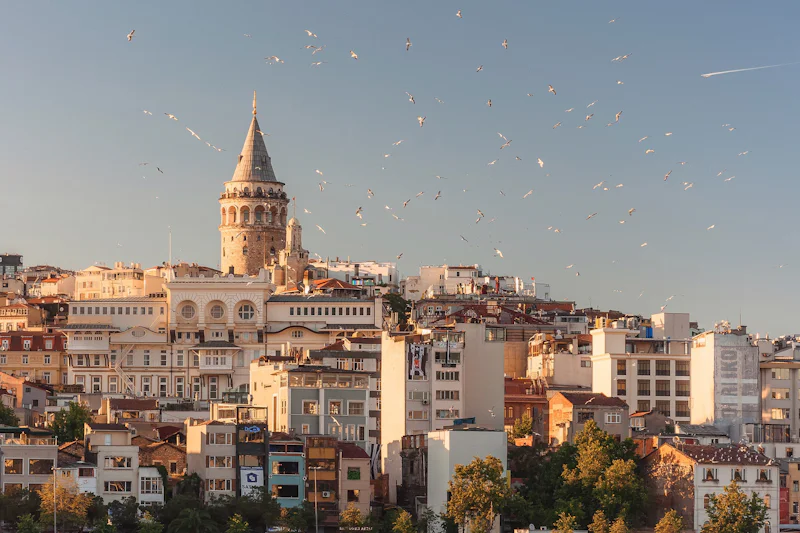
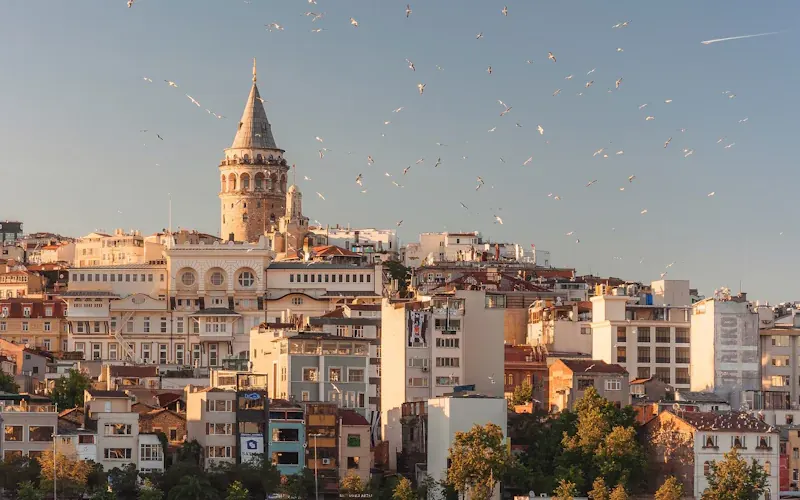
Lighten homepage destination tiles
Landscape 1.6:1 masters and quality 40 bring every tile under PageSpeed's compression target; extend the PageSpeed regression tests.

diff --git a/src/lib/pagespeed-assets.test.ts b/src/lib/pagespeed-assets.test.ts
@@ -1,5 +1,5 @@
 import assert from "node:assert/strict";
-import { existsSync, readFileSync } from "node:fs";
+import { existsSync, readFileSync, readdirSync } from "node:fs";
 import { join } from "node:path";
 import test from "node:test";
 import { HOME_DESTINATIONS } from "@/data/home";
@@ -35,6 +35,65 @@ test("English root layout does not construct unused Noto families", () => {
   assert.doesNotMatch(layout, /Noto_Sans_Arabic/);
   assert.match(layout, /LocaleFontLinks/);
   assert.match(layout, /clientMessagesFor/);
+});
+
+test("route-only stylesheets are no longer part of the global CSS", () => {
+  const globals = readFileSync(join(process.cwd(), "src/app/globals.css"), "utf8");
+  for (const prefix of [
+    "\n.cms-shell {",
+    "\n.cms-nav {",
+    "\n.tanzania-hub",
+    "\n.hp-hero {",
+    "\n.treatment-card {",
+    "\n.treatment-filters {",
+  ]) {
+    assert.ok(!globals.includes(prefix), `${prefix.trim()} should live in a route stylesheet`);
+  }
+  for (const file of [
+    "src/app/cms/cms.css",
+    "src/styles/origin-hub.css",
+    "src/styles/treatments.css",
+    "src/styles/hospital-profile.css",
+  ]) {
+    assert.ok(existsSync(join(process.cwd(), file)), file);
+  }
+  const cmsLayout = readFileSync(join(process.cwd(), "src/app/cms/layout.tsx"), "utf8");
+  assert.match(cmsLayout, /import "\.\/cms\.css"/);
+  const card = readFileSync(join(process.cwd(), "src/components/treatment-card.tsx"), "utf8");
+  assert.match(card, /styles\/treatments\.css/);
+  const seals = readFileSync(join(process.cwd(), "src/components/accreditation-seals.tsx"), "utf8");
+  assert.match(seals, /styles\/hospital-profile\.css/);
+});
+
+test("every origin-country hub imports the hub stylesheet", () => {
+  const appDir = join(process.cwd(), "src/app");
+  const hubs = readdirSync(appDir)
+    .map((dir) => join(appDir, dir, "treatment-in-india/page.tsx"))
+    .filter((file) => existsSync(file));
+  assert.ok(hubs.length >= 30);
+  for (const file of hubs) {
+    const source = readFileSync(file, "utf8");
+    assert.match(source, /styles\/origin-hub\.css/, file);
+    assert.match(source, /styles\/treatments\.css/, file);
+  }
+});
+
+test("logos ship from /_next/static so the CDN caches them immutably", () => {
+  for (const file of ["src/components/site-header.tsx", "src/components/site-footer.tsx"]) {
+    const source = readFileSync(join(process.cwd(), file), "utf8");
+    assert.doesNotMatch(source, /"\/brand\/gaf-healthcare[^"]*\.svg"/, file);
+    assert.match(source, /@\/assets\/brand\/gaf-healthcare/, file);
+  }
+  assert.ok(existsSync(join(process.cwd(), "src/assets/brand/gaf-healthcare-light.svg")));
+});
+
+test("legacy polyfill module is replaced for the modern browserslist", () => {
+  const config = readFileSync(join(process.cwd(), "next.config.mjs"), "utf8");
+  assert.match(config, /NormalModuleReplacementPlugin/);
+  assert.match(config, /polyfill-module/);
+  const shim = readFileSync(join(process.cwd(), "src/lib/polyfills/modern-browsers.js"), "utf8");
+  assert.doesNotMatch(shim, /Array\.prototype\.(at|flat|flatMap)\s*=/);
+  assert.doesNotMatch(shim, /Object\.fromEntries\s*=/);
 });
 
 test("homepage estimate CTA stays off the LocaleLink client graph", () => {

diff --git a/src/app/page.tsx b/src/app/page.tsx
@@ -186,7 +186,7 @@ export default async function HomePage() {
                 src={place.image}
                 alt={place.imageAlt}
                 fill
-                quality={60}
+                quality={40}
                 className="object-cover"
                 sizes="(min-width: 1024px) 16vw, (min-width: 640px) 33vw, 100vw"
               />
